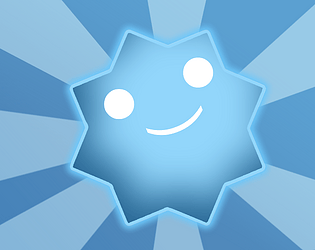
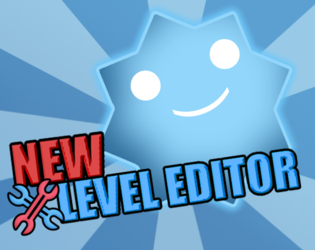
Fixes + new projects

diff --git a/index.html b/index.html
@@ -33,10 +33,13 @@
         <div class="bio">
           <h3>¡Hola, soy Joaquín!</h3>
           <p>
-            Soy un desarrollador de videojuegos apasionado por la creación de mundos interactivos y experiencias galácticamente entretenidas. Mi enfoque combina creatividad, lógica y una pizca de locura cósmica para llevar cada proyecto más allá de las estrellas.
+            Soy un desarrollador de videojuegos apasionado por 
+            la creación de mundos interactivos, experiencias entretenidas y desafiantes. 
+            Mi enfoque combina creatividad, lógica y una pizca de locura.
           </p>
           <p>
-            He trabajado en títulos independientes que abarcan desde plataformas frenéticos hasta simulaciones experimentales. Me encanta aprender tecnologías nuevas, colaborar con equipos multidisciplinarios y convertir ideas en realidad jugable.
+            He trabajado en títulos independientes que abarcan desde plataformeros frenéticos hasta simulaciones experimentales. 
+            Me encanta aprender tecnologías nuevas, colaborar con equipos multidisciplinarios y convertir ideas en realidad jugable.
           </p>
         </div>
       </div>
@@ -83,13 +86,29 @@
     <section id="proyectos">
       <h2>Mis Proyectos</h2>
       <div class="galeria">
-        
+
           <div class="proyecto">
-            <img src="images/parkour.png" alt="Parkour Training Arc" />
+            <img src="images/ppl.png" alt="Project PL" />
             <div class="info">
-              <h3>Parkour Training Arc</h3>
-              <p>Juego de plataformas 2D pixel art con mecánicas de parkour intensas.</p>
-              <a href="https://wordsaw.itch.io/parkour-training-arc" target="_blank">Ver proyecto</a>
+              <h3>Project PL (VR)</h3>
+              <p>
+                Juego de horror en realidad virtual ambientado en la fundación SCP. 
+                Explora la fundación mientras escapas de los monstruos que han sido liberados como experimento, 
+                donde tú eres la rata de laboratorio.
+              </p>
+              <a href="https://astrosepu-studio.itch.io/project-pl-vr" target="_blank">Ver proyecto</a>
+            </div>
+          </div>
+
+          <div class="proyecto">
+            <img src="images/bubblebind.png" alt="Bubble Bind" />
+            <div class="info">
+              <h3>Bubble Bind</h3>
+              <p>
+                Juego de puzzles 2D con una mecánica única de burbujas que desafiarán tus habilidades cognitivas.
+                Incluye un editor de niveles para que puedas crear y compartir tus propios desafíos.
+              </p>
+              <a href="https://astrosepu-studio.itch.io/bubble-bind" target="_blank">Ver proyecto</a>
             </div>
           </div>
 
@@ -97,7 +116,10 @@
             <img src="images/chivivors.png" alt="Chivivors" />
             <div class="info">
               <h3>Chivivors</h3>
-              <p>Una horda de monstruos, caos y acción en este juego tipo Vampire Survivors.</p>
+              <p>
+                Una horda de monstruos, caos y acción en este juego tipo Vampire Survivors.
+                Roguelike con múltiples personajes, objetos y habilidades que te permiten jugar de innumerables formas.
+              </p>
               <a href="https://wordsaw.itch.io/chivivors" target="_blank">Ver proyecto</a>
             </div>
           </div>
@@ -106,17 +128,23 @@
             <img src="images/perplexity.png" alt="Perplexity" />
             <div class="info">
               <h3>Perplexity</h3>
-              <p>Juego de horror atmosférico con estética abstracta inspirada por los conocidos Backrooms.</p>
+              <p>
+                Juego de horror atmosférico con estética liminal inspirada por los conocidos Backrooms.
+                Adentrate en oscuros pasillos que te pondrán los pelos de punta y te harán cuestionar tu cordura.
+              </p>
               <a href="https://astrosepu-studio.itch.io/perplexity" target="_blank">Ver proyecto</a>
             </div>
           </div>
 
           <div class="proyecto">
-            <img src="images/bubblebind.png" alt="Bubble Bind" />
+            <img src="images/wildstore.png" alt="Wildstore" />
             <div class="info">
-              <h3>Bubble Bind</h3>
-              <p>Juego de puzzles 2D con una mecánica única de burbujas que desafiarán tus habilidades cognitivas.</p>
-              <a href="https://astrosepu-studio.itch.io/bubble-bind" target="_blank">Ver proyecto</a>
+              <h3>Wildstore</h3>
+              <p>
+                Simulador de supermercado en un mundo donde los clientes son mascotas inteligentes que quieren 
+                comprar productos para la semana.
+              </p>
+              <a href="https://astrosepu-studio.itch.io/wild-store" target="_blank">Ver proyecto</a>
             </div>
           </div>
         
@@ -124,12 +152,25 @@
             <img src="images/ThiefCats.png" alt="Thief Cats" />
             <div class="info">
               <h3>Thief Cats</h3>
-              <p>Juego multijugador en el que los jugadores asumen el papel de gatos ladrones que deben robar objetos valiosos mientras evitan ser atrapados 
-                o el de un perro que debe acabar con ellos.</p>
+              <p>
+                Juego multijugador en el que los jugadores asumen el papel de gatos ladrones que deben robar objetos valiosos 
+                mientras evitan ser atrapados o el de un perro que debe acabar con ellos.
+              </p>
               <a href="https://drive.google.com/drive/folders/1iYqIxu1GOjFcpkJjBTsiP8pAgdkIB17f?usp=sharing" target="_blank">Ver proyecto</a>
             </div>
           </div>
         
+          <div class="proyecto">
+            <img src="images/parkour.png" alt="Parkour Training Arc" />
+            <div class="info">
+              <h3>Parkour Training Arc</h3>
+              <p>
+                Juego de plataformas 2D pixel art con mecánicas de parkour intensas.
+                Corre, salta y escala a través de un único nivel en el que si caes puedes perder todo tu progreso.
+              </p>
+              <a href="https://wordsaw.itch.io/parkour-training-arc" target="_blank">Ver proyecto</a>
+            </div>
+          </div>
       </div>
     </section>
 

diff --git a/estilos.css b/estilos.css
@@ -223,15 +223,20 @@ main {
 .proyecto .info {
   padding: 1.2rem;
   text-align: left;
+
+  display: flex;
+  flex-direction: column;
+  height: 100%;
 }
 
 .proyecto h3 {
-  margin-top: 0;
+  margin: 0;
   font-size: 1.5rem;
   color: var(--acento);
 }
 
 .proyecto p {
+  flex-grow: 1;
   color: var(--gris);
   font-size: 1rem;
   margin: 0.5rem 0 1rem;
